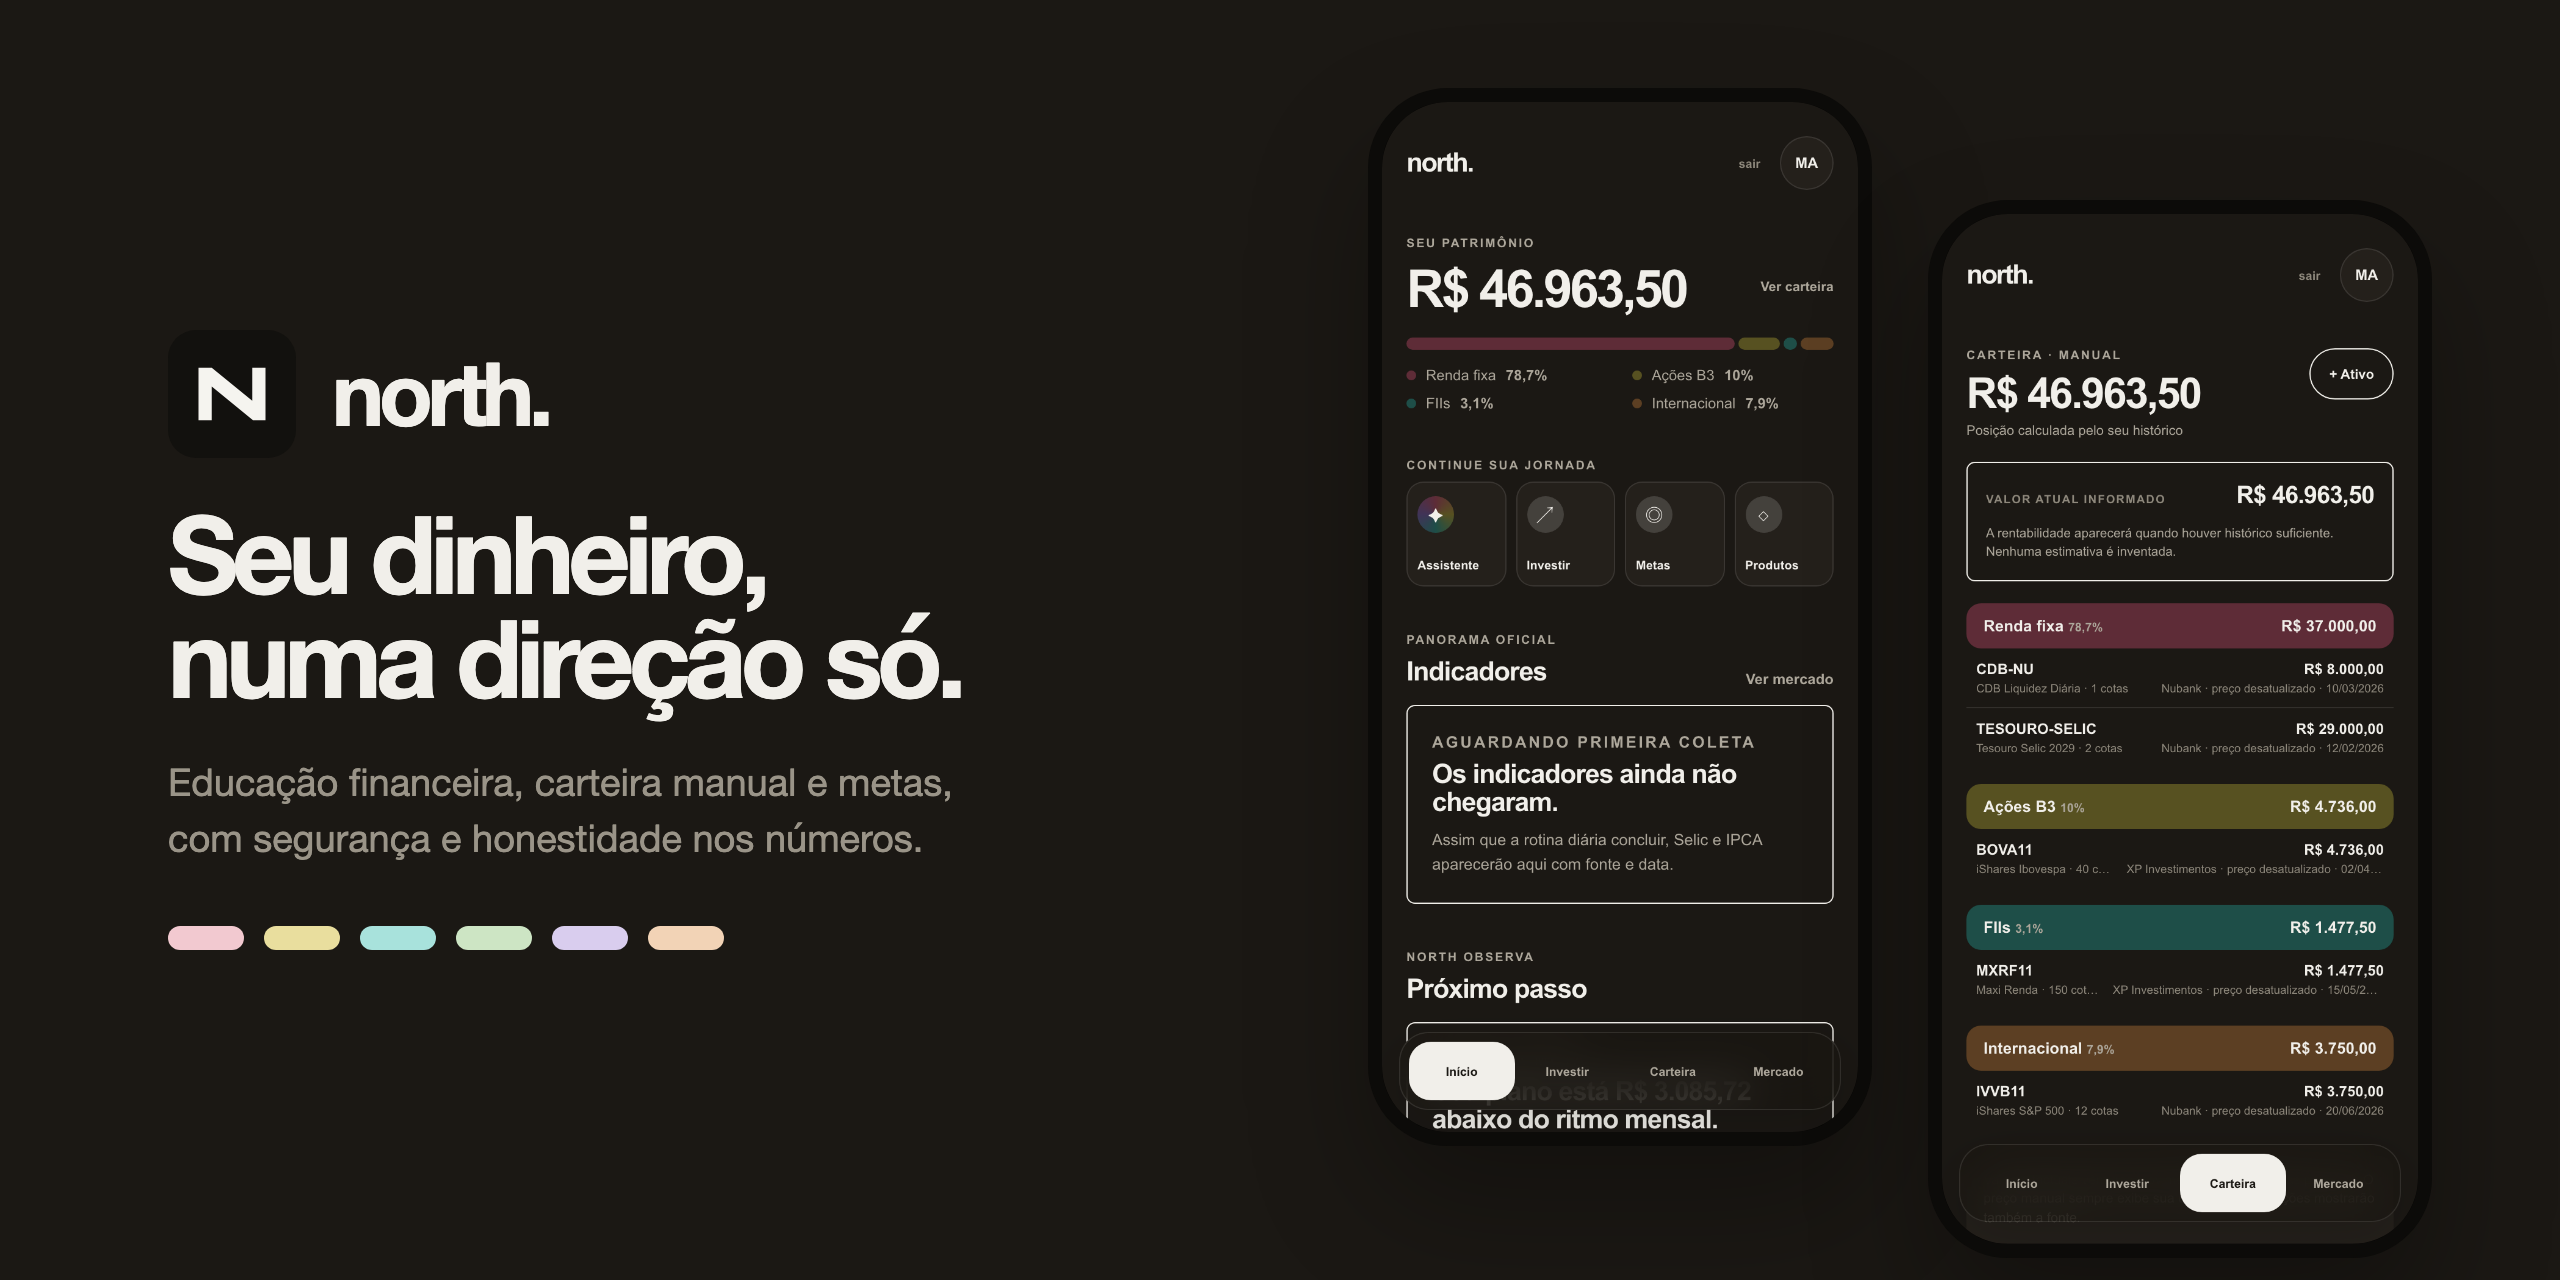
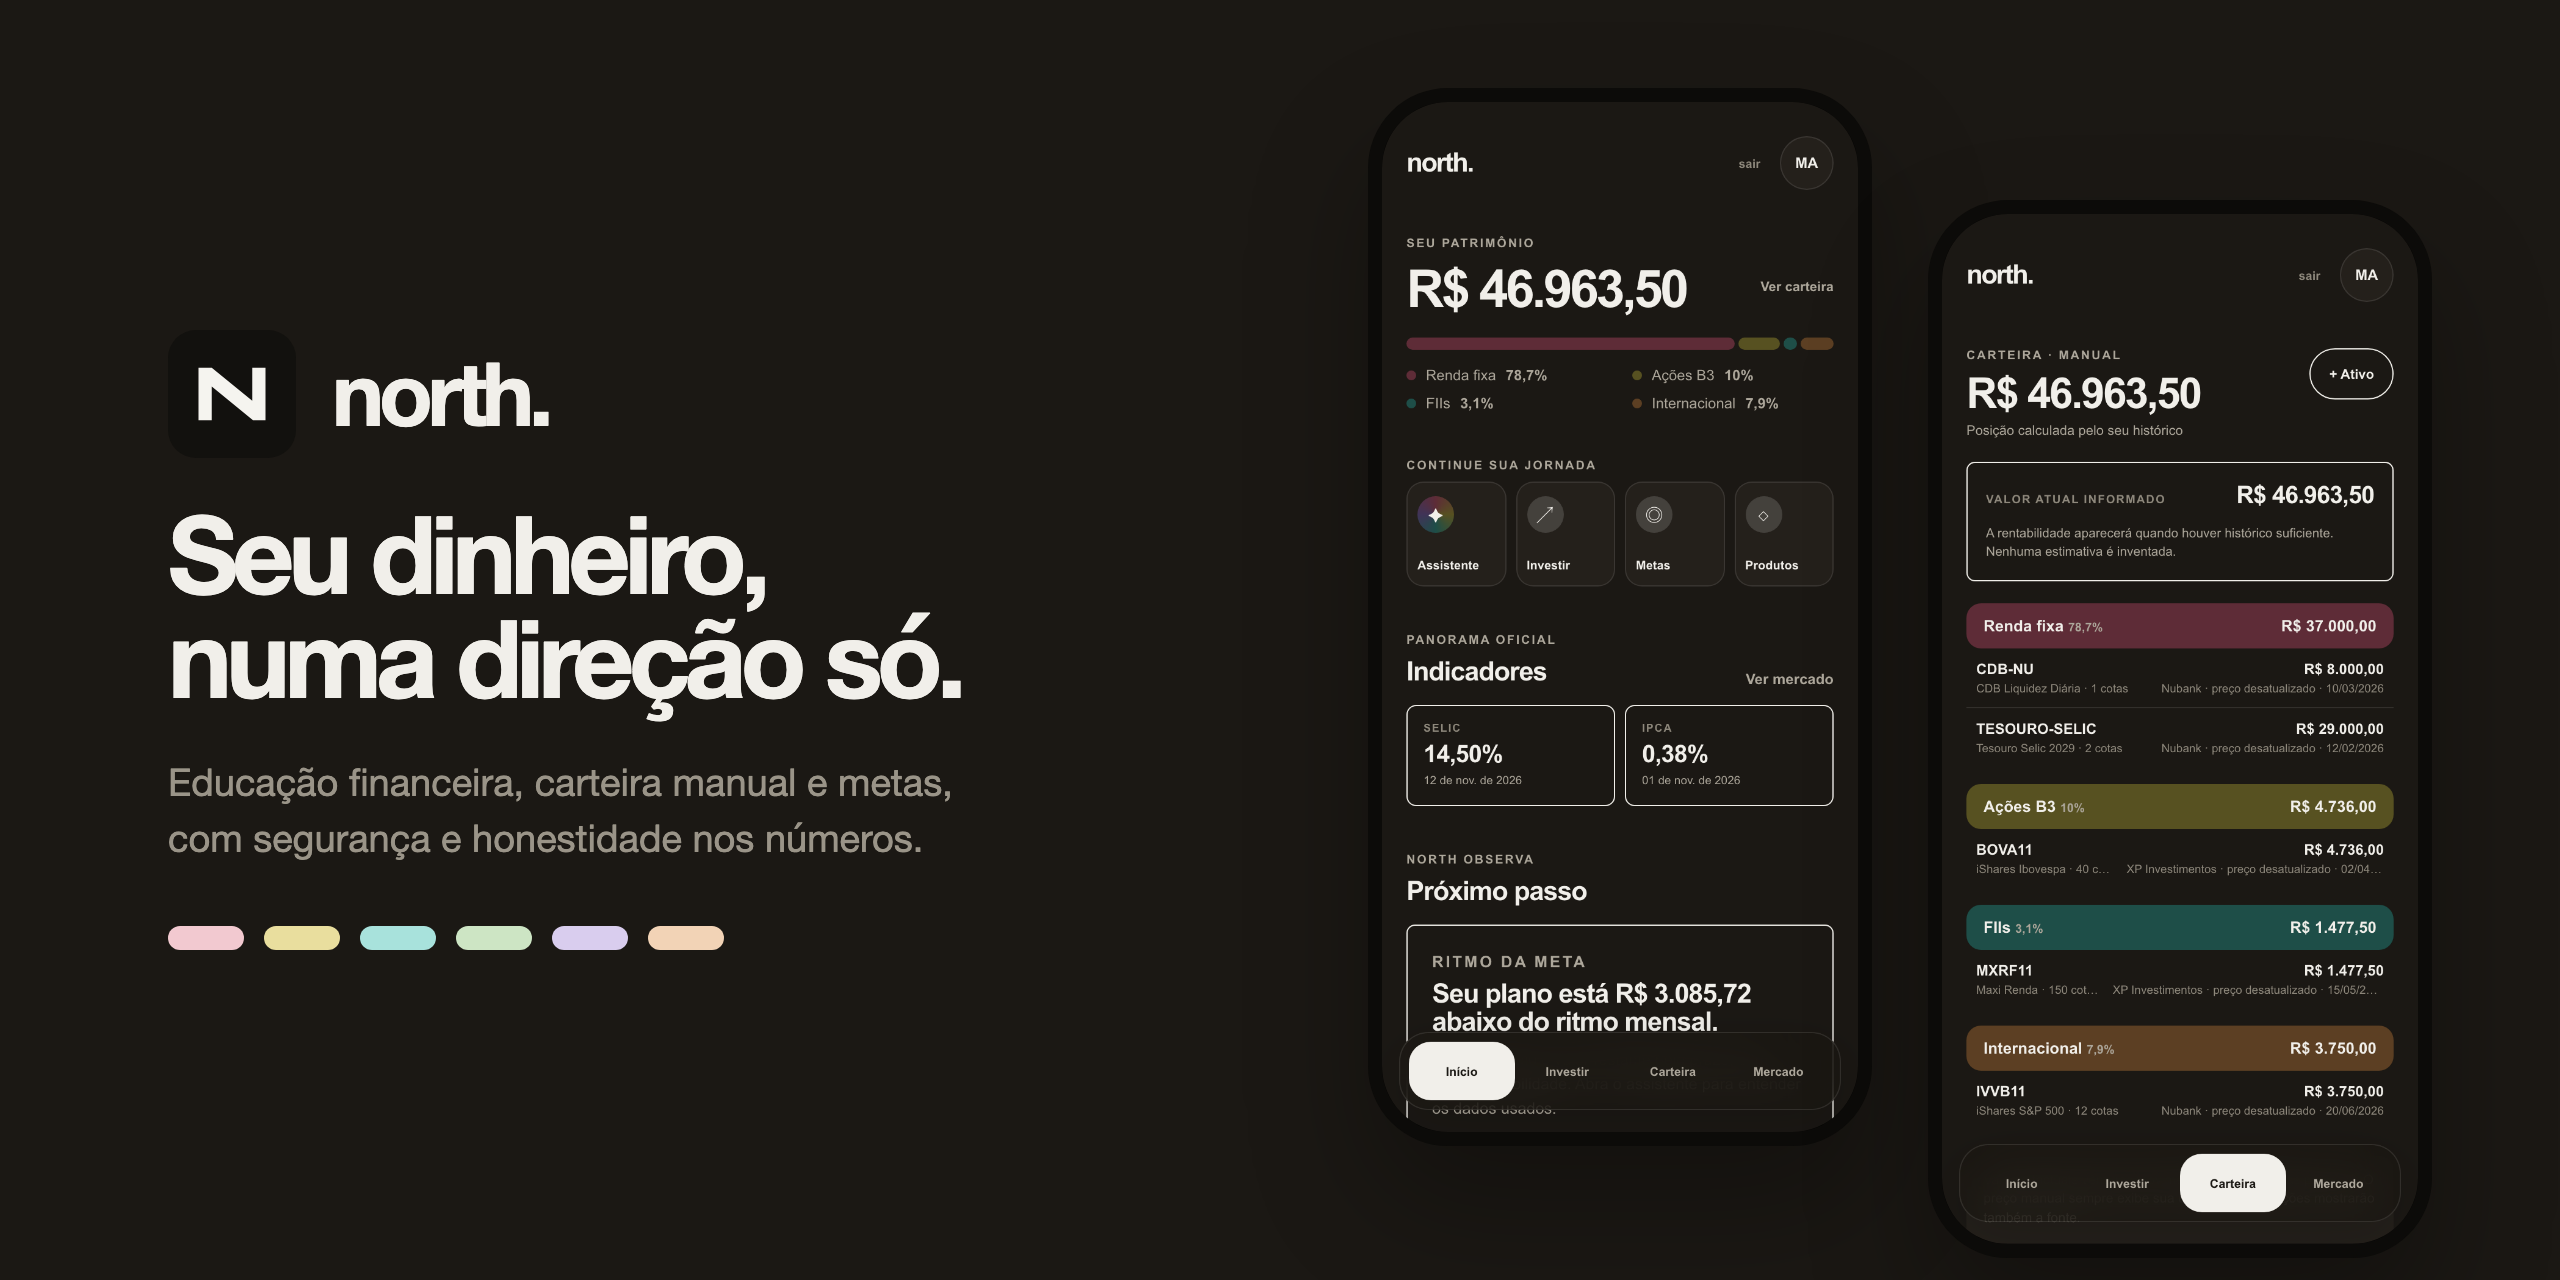
docs: refresh screenshots with indicators and note that they are illustrative

Changed region(s): [[0.5312, 0.5625, 0.6875, 0.8125], [0.5625, 0.8438, 0.6562, 0.9062]]

diff --git a/README.md b/README.md
@@ -38,7 +38,7 @@ A regra central do app é simples: **nenhum número inventado**. Quando um dado 
   </tr>
 </table>
 
-As capturas usam uma conta fictícia, criada só para este README.
+As capturas usam uma conta fictícia, criada só para este README. Os valores de Selic e IPCA no Início são ilustrativos, inseridos no banco local para a imagem, porque a coleta real depende de fontes externas.
 
 ### O que já funciona
 
